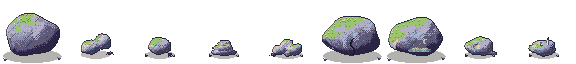
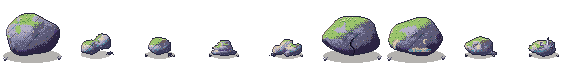
mossy_boulder.png act 4: frost on rocks tops out at Slate, not Mist (Theme Discussion: rocks sat only 0.03 under the path)
rockMoss(A): a frozen act's moss ramp on rocks ends at Slate. Act 4 rocks 0.561 -> 0.535 (path 0.595), in line with acts 1-3 (0.530 / 0.530 / 0.534 vs 0.595 / 0.595 / 0.599). Only heartwood_glade/mossy_boulder.png changes.

diff --git a/Project_T/tools/environment_art/heartwood_grounds.html b/Project_T/tools/environment_art/heartwood_grounds.html
@@ -856,7 +856,7 @@ function fern(out, g, x, y, sz = 1) {
 }
 
 function boulder(A, v, seed, big = false) {  // big: variant 0 as a heavy boulder filling most of the cell (see rock)
-  const out = new Img(), L = new Img(), g = A.grass;
+  const out = new Img(), L = new Img(), g = rockMoss(A);
   ellipse(out, 32, big ? 56 : 54, big ? 29 : 22, big ? 7 : 6, SHADOW(big ? .34 : .3));
   const rocks = big ? [[32, 35, 27, 21]] : v === 0 ? [[32, 38, 20, 16]] : [[24, 43, 14, 11], [42, 35, 13, 12]];
   for (const [x, y, rx, ry] of rocks) blob(L, x, y, rx, ry, big ? BIG_STONE : STONE_RAMP, { lump: .1, seed: seed + x, tex: .12, rim: true });
@@ -1577,7 +1577,7 @@ function mossPass(L, cx, cy, rx, ry, g, seed, amount = .78) {
 // big: a heavy boulder filling most of the cell, never shrunk (2026-10-06, Environment Discussion: the shrunk
 // boulders read as dots in the spurs, so spur lines looked like trees only). Split (3) and lichen (4) only.
 function rock(A, t, seed, big = false) {
-  const out = new Img(), L = new Img(), g = A.grass, dim = [g[0], g[0], g[1], g[2], g[3]];
+  const out = new Img(), L = new Img(), g = rockMoss(A), dim = [g[0], g[0], g[1], g[2], g[3]];
   if (big) {
     ellipse(out, 32, 56, 29, 7, SHADOW(.34));
     const [cx, cy, rx, ry] = t === 3 ? [32, 36, 28, 20] : [32, 37, 27, 19];
@@ -2132,6 +2132,9 @@ function ropeBridge(o) {
 // Rocks read smaller than the (taller) dead trees: each finished 64 px rock is shrunk to 68%
 // (nearest pixel), re-outlined, and set back on its old base line (y 55) in a 64 px cell.
 const ROCK_SCALE = .68;
+// The moss on rocks: the act's grass ramp, but a frozen act's frost tops out at Slate, not Mist (2026-10-06, Theme
+// Discussion: act 4's rocks sat only 0.03 under its path; the path must stay clearly the palest thing).
+const rockMoss = A => A.frozen ? [...A.grass.slice(0, 4), A.grass[3]] : A.grass;
 const BIG_STONE = [ST.d2, ST.d1, ST.m, ST.l1, ST.l2];  // the big boulders: one step heavier, no top highlight (keeps rocks under the path)
 function shrinkRock(im) {
   const n = Math.round(64 * ROCK_SCALE), small = new Img(n, n);
